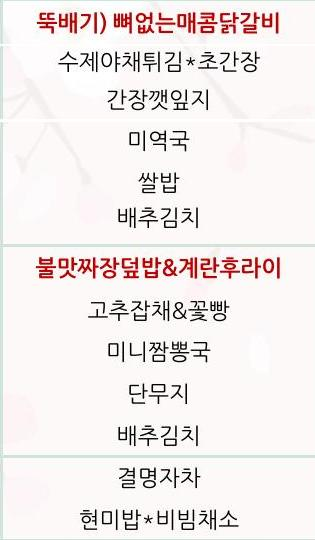
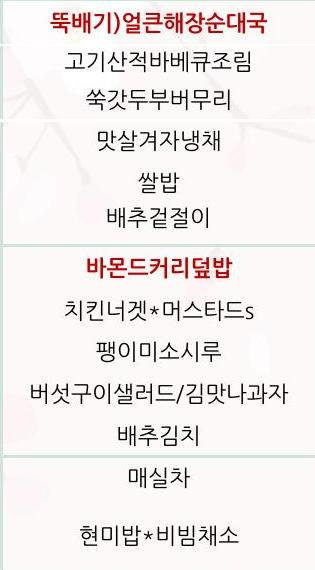
Add Data (Week 21)

Changed region(s): [[0.0, 0.0, 1.0, 1.0]]

diff --git a/src/html/index.html b/src/html/index.html
@@ -24,7 +24,7 @@
   <div class="cover-container d-flex w-100 h-100 p-3 mx-auto flex-column">
     <header class="mb-auto">
       <div>
-        <h3 class="float-md-start mb-0">을지로 본점 식단표</h3>
+        <h3 class="float-md-start mb-0">명동 별관 식단표</h3>
         <nav class="nav nav-masthead justify-content-center float-md-end">
           <a class="nav-link active" aria-current="page" href="index.html">일간</a>
           <a class="nav-link" href="week.html">주간</a>

diff --git a/src/html/week.html b/src/html/week.html
@@ -21,7 +21,7 @@
   <div class="cover-container d-flex w-100 h-100 p-3 mx-auto flex-column">
     <header class="mb-auto">
       <div>
-        <h3 class="float-md-start mb-0">을지로 본점 식단표</h3>
+        <h3 class="float-md-start mb-0">명동 별관 식단표</h3>
         <nav class="nav nav-masthead justify-content-center float-md-end">
           <a class="nav-link" href="index.html">일간</a>
           <a class="nav-link active" aria-current="page" href="week.html">주간</a>

diff --git a/src/python/image_crop.py b/src/python/image_crop.py
@@ -30,7 +30,7 @@ def execute_image_crop(location):
         fri = 1720
         end = 2040
         top = 440
-        bottom = 980
+        bottom = 1010
 
     image_cropping("week", (mon, top, end, bottom))
 
